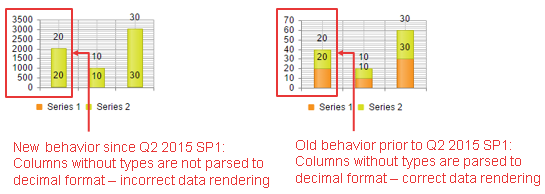
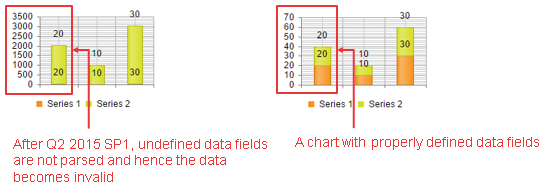
minor updates

diff --git a/controls/htmlchart/changes-and-backwards-compatibility/data-source-string-fields-are-not-parsed-to-decimal.md b/controls/htmlchart/changes-and-backwards-compatibility/data-source-string-fields-are-not-parsed-to-decimal.md
@@ -16,17 +16,19 @@ As of **Q2 2015 SP1**, **RadHtmlChart** doesn't try to parse automatically strin
 
 * [Incorrect Data Rendering When Data Source Field Types Are Not Defined](#incorrect-data-rendering-when-data-source-field-types-are-not-defined)
 
+>important You should always define the type of the data source fields, so that the chart can properly process and render the data.
+
 ## XAxis and Legend Labels Are Not 'TryParsed' to Decimal
 
 If the chart's category x-axis refers to a string type column from the data source that can be parsed to a decimal format, it will be handled as a string and the labels displayed will not be parsed.
 
-The old and the new behavior of the control are illustrated with the code from **Example 1** and you can see the difference in **Figure 1**.
+The old ([incorrect](http://feedback.telerik.com/Project/108/Feedback/Details/122627)) and the new behavior of the control are illustrated with the code from **Example 1** and you can see the difference in **Figure 1**.
 
 >caption Figure 1: String columns from the data source that can be parsed to a decimal format will be displayed as strings.
 
 ![data-source-string-fields-are-not-parsed-to-decimal](images/data-source-string-fields-are-not-parsed-to-decimal.png)
 
->caption Example 1: Binding a DataTable that contains a string column that can be parsed to a decimal format.
+>caption Example 1: Binding RadHtmlChart to a DataTable that contains a string column whose values can be parsed to a decimal format. Such values are not parsed by RadHtmlChart.
 
 ````ASP.NET
 <telerik:RadHtmlChart ID="ColumnChart1" runat="server" Width="200px" Height="150px">
@@ -115,7 +117,7 @@ If data source fields types are not defined, the data may not be properly proces
 
 ![incorrect-correct-data-rendering](images/incorrect-correct-data-rendering.png)
 
->caption Example 2: Binding a DataTable that contains a field without type defined.
+>caption Example 2: Binding RadHtmlChart to a DataTable that contains a field without type defined. This scenario is not supported by RadHtmlChart and you should always define the field/column types.
 
 ````C#
 protected void Page_Init(object sender, EventArgs e)
@@ -168,8 +170,6 @@ End Sub
 	</Legend>
 </telerik:RadHtmlChart>
 ````
-
->important You should always define the type of the data source fields, so that the chart can properly process and render the data.
 
 
 ## See Also
